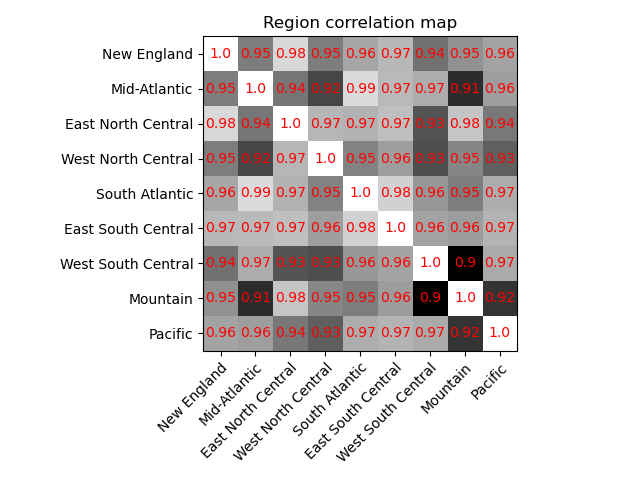
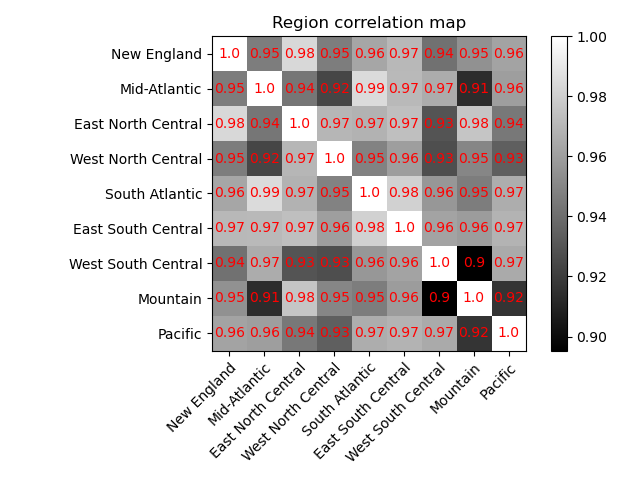
Colorbar.

Changed region(s): [[0.0938, 0.0312, 0.9688, 0.9688], [0.9062, 0.0625, 0.9688, 0.0938]]

diff --git a/cross_correlation.py b/cross_correlation.py
@@ -124,6 +124,7 @@ if PLOT:
             text = ax.text(j, i, round(corr_heatmap[i, j], 3),
                            ha="center", va="center", color="r")
     ax.set_title("Age group correlation map")
+    fig.colorbar(im, ax=ax)
     fig.tight_layout()
     if SAVEFIG:
         plt.savefig('12')
@@ -141,6 +142,7 @@ if PLOT:
             text = ax.text(j, i, round(region_heatmap[i, j], 2),
                            ha="center", va="center", color="r")
     ax.set_title("Region correlation map")
+    fig.colorbar(im, ax=ax)
     fig.tight_layout()
     if SAVEFIG:
         plt.savefig('13')
